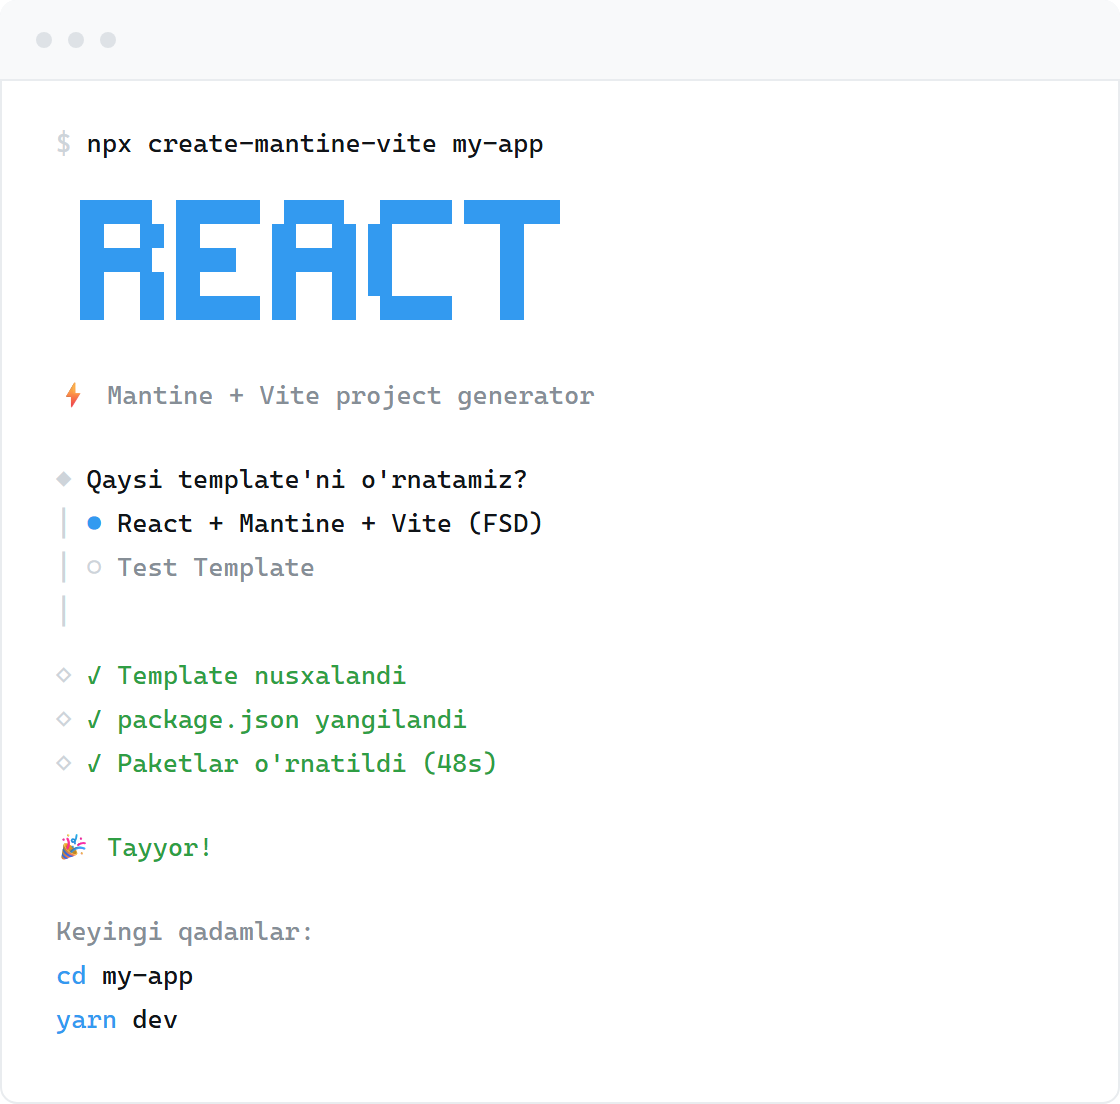
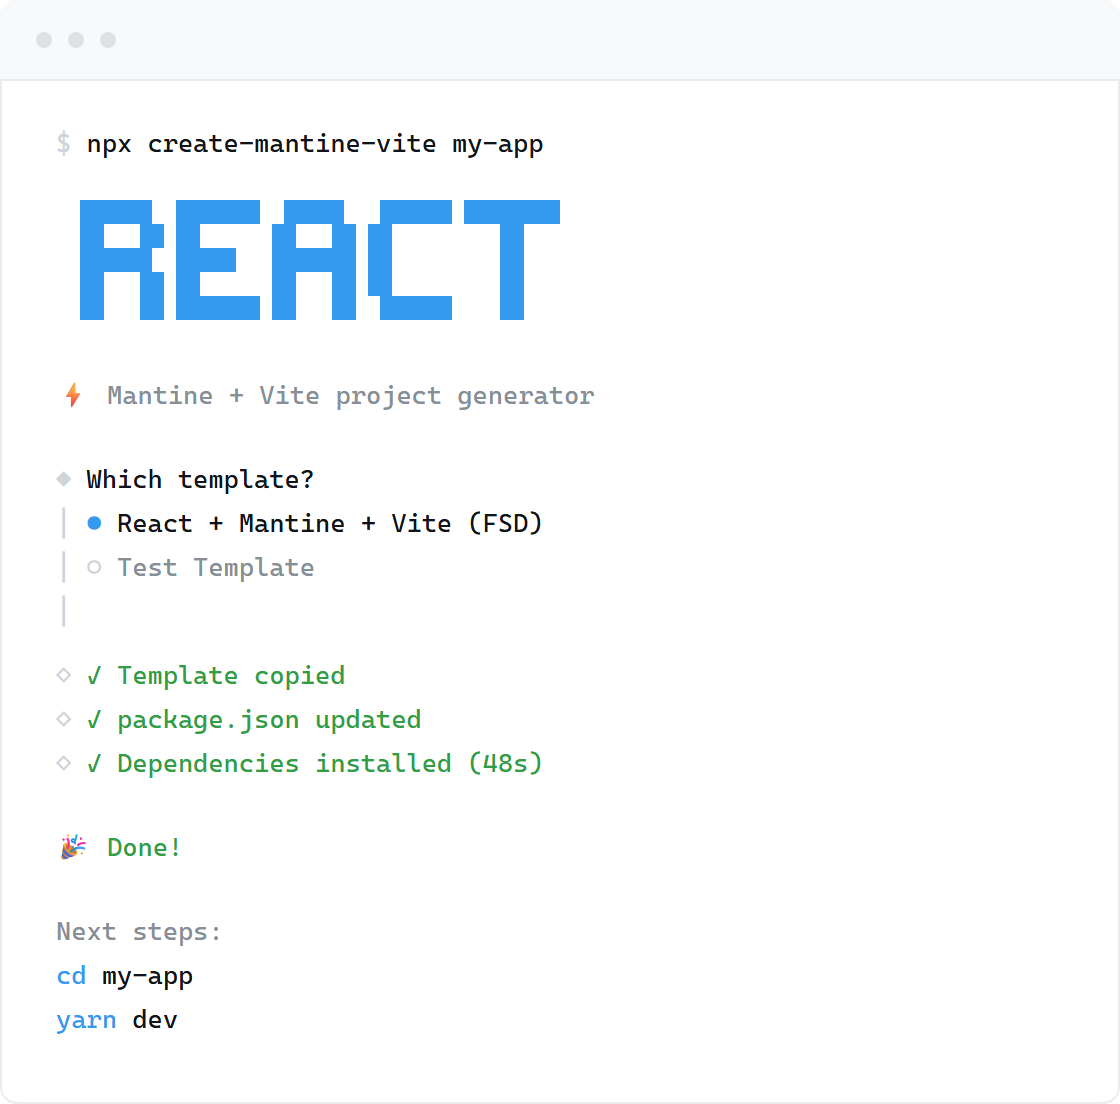
feat: switch CLI output to English
The CLI spoke Uzbek while the package, README, and npm audience were English —
prompts like "Qaysi template'ni o'rnatamiz?" were unreadable to most people
installing it.

- translate every prompt, spinner, warning, and error string
- translate code comments so the repo is contributor-readable
- collapse the three-line success banner to one green line plus a dim
  follow-up; three bold green lines buried the next steps under them
- redraw assets/terminal.svg and .png with the English session

diff --git a/packages/create-mantine-vite/bin/cli.js b/packages/create-mantine-vite/bin/cli.js
@@ -34,7 +34,7 @@ const TEMPLATES = [
     {
         value: "test-template",
         label: "Test Template",
-        hint: "tez orada qo'shiladi",
+        hint: "coming soon",
         dir: null,
         available: false,
     },
@@ -78,15 +78,15 @@ async function animatedBanner() {
 
     console.log("");
 
-    // 1) Hamma qatorlarni dim chiqaramiz (darhol)
+    // 1) Print every line dim, immediately
     for (const line of lines) {
         console.log(pc.dim(line));
     }
 
-    // 2) Cursor banner boshiga qaytariladi
+    // 2) Move the cursor back to the top of the banner
     process.stdout.write(`\x1b[${lines.length}A`);
 
-    // 3) Har qatorni cyan + bold ga aylantiramiz, ketma-ket
+    // 3) Repaint each line cyan + bold, one after another
     for (const line of lines) {
         process.stdout.write(`\x1b[2K\r${pc.bold(pc.cyan(line))}\n`);
         await sleep(110);
@@ -98,7 +98,7 @@ async function animatedBanner() {
 }
 
 // ───── Pretty exit ─────
-function bye(msg = "O'rnatish bekor qilindi 😏") {
+function bye(msg = "Cancelled.") {
     cancel(msg);
     process.exit(0);
 }
@@ -109,11 +109,11 @@ async function chooseTemplate(preset) {
         const template = TEMPLATES.find((t) => t.value === preset);
         if (!template) {
             const names = TEMPLATES.filter((t) => t.available).map((t) => t.value).join(", ");
-            log.error(`"${preset}" degan template yo'q. Mavjudlari: ${names}`);
+            log.error(`No template named "${preset}". Available: ${names}`);
             process.exit(1);
         }
         if (!template.available) {
-            log.error(`"${preset}" hali mavjud emas.`);
+            log.error(`Template "${preset}" is not available yet.`);
             process.exit(1);
         }
         return template;
@@ -121,7 +121,7 @@ async function chooseTemplate(preset) {
 
     while (true) {
         const value = await select({
-            message: `Qaysi template'ni o'rnatamiz?\n${pc.dim("│")}`,
+            message: `Which template?\n${pc.dim("│")}`,
             options: TEMPLATES.map((t) => ({
                 value: t.value,
                 label: t.available ? t.label : pc.dim(t.label),
@@ -132,10 +132,10 @@ async function chooseTemplate(preset) {
         if (isCancel(value)) bye();
 
         const template = TEMPLATES.find((t) => t.value === value);
-        if (!template) bye("Template tanlanmadi.");
+        if (!template) bye("No template selected.");
 
         if (!template.available) {
-            log.warn(`"${template.label.trim()}" hali mavjud emas. Boshqa template tanlang.`);
+            log.warn(`"${template.label.trim()}" is not available yet. Pick another one.`);
             continue;
         }
         return template;
@@ -146,11 +146,11 @@ async function chooseTemplate(preset) {
 async function chooseProjectName(initial) {
     if (initial && initial.trim()) return initial.trim();
     const name = await text({
-        message: "Loyiha nomi:",
+        message: "Project name:",
         placeholder: "my-app",
         initialValue: "my-app",
         validate: (v) => {
-            if (!v.trim()) return "Bo'sh bo'lishi mumkin emas";
+            if (!v.trim()) return "Project name cannot be empty";
         },
     });
     if (isCancel(name)) bye();
@@ -169,12 +169,12 @@ async function ensureEmptyTarget(targetDir, projectName) {
 
     if (entries.length === 0) return;
 
-    log.warn(`"${projectName}" papkasi mavjud va bo'sh emas (${entries.length} ta element).`);
+    log.warn(`"${projectName}" already exists and is not empty (${entries.length} entries).`);
     const ok = await confirm({
-        message: "Ichidagi hamma narsa o'chirilsinmi?",
+        message: "Delete everything inside it?",
         initialValue: false,
     });
-    if (isCancel(ok) || !ok) bye("Papka o'zgartirilmadi.");
+    if (isCancel(ok) || !ok) bye("Left the folder untouched.");
 
     await fs.rm(targetDir, {recursive: true, force: true});
 }
@@ -204,7 +204,7 @@ async function copyTemplate(srcDir, destDir) {
 // ───── Install runner: pipe output, our spinner, dump on failure ─────
 async function runInstall(cmd, cwd) {
     const s = spinner();
-    s.start(`Paketlar o'rnatilmoqda (${cmd})`);
+    s.start(`Installing dependencies (${cmd})`);
     const startTime = Date.now();
 
     const [bin, ...args] = cmd.split(" ");
@@ -220,7 +220,7 @@ async function runInstall(cmd, cwd) {
 
     const interval = setInterval(() => {
         const elapsed = Math.floor((Date.now() - startTime) / 1000);
-        s.message(`Paketlar o'rnatilmoqda (${cmd}) — ${elapsed}s`);
+        s.message(`Installing dependencies (${cmd}) — ${elapsed}s`);
     }, 1000);
 
     const exitCode = await new Promise((resolve) => {
@@ -232,11 +232,11 @@ async function runInstall(cmd, cwd) {
     const elapsed = Math.floor((Date.now() - startTime) / 1000);
 
     if (exitCode === 0) {
-        s.stop(pc.green(`✓ Paketlar o'rnatildi (${elapsed}s)`));
+        s.stop(pc.green(`✓ Dependencies installed (${elapsed}s)`));
         return true;
     }
 
-    s.stop(pc.red(`✗ Paketlarni o'rnatib bo'lmadi (${cmd})`));
+    s.stop(pc.red(`✗ Could not install dependencies (${cmd})`));
     const output = Buffer.concat(chunks).toString();
     if (output.trim()) {
         console.error(pc.dim("\n  ─── output ───"));
@@ -269,28 +269,28 @@ const presetTemplate = args
 
     // 1. Copy the template out of this package
     const copySpinner = spinner();
-    copySpinner.start(`Template tayyorlanmoqda — ${template.label.trim()}`);
+    copySpinner.start(`Preparing template — ${template.label.trim()}`);
     const srcDir = path.join(TEMPLATES_DIR, template.dir);
     try {
         await fs.access(srcDir);
     } catch {
-        copySpinner.stop(pc.red("✗ Template topilmadi"));
-        log.error(`Paket ichida "${template.dir}" yo'q: ${srcDir}`);
-        log.info("Paket buzilgan bo'lishi mumkin — qayta o'rnatib ko'ring.");
+        copySpinner.stop(pc.red("✗ Template not found"));
+        log.error(`Missing "${template.dir}" inside the package: ${srcDir}`);
+        log.info("The package may be corrupted — try reinstalling it.");
         process.exit(1);
     }
     try {
         await copyTemplate(srcDir, targetDir);
-        copySpinner.stop(pc.green("✓ Template nusxalandi"));
+        copySpinner.stop(pc.green("✓ Template copied"));
     } catch (err) {
-        copySpinner.stop(pc.red("✗ Template nusxalashda xato"));
+        copySpinner.stop(pc.red("✗ Could not copy the template"));
         console.error(err);
         process.exit(1);
     }
 
-    // 2. package.json — name moslash
+    // 2. package.json — match the project name
     const pkgSpinner = spinner();
-    pkgSpinner.start("package.json yangilanmoqda");
+    pkgSpinner.start("Updating package.json");
     try {
         const pkgPath = path.join(targetDir, "package.json");
         const pkg = JSON.parse(await fs.readFile(pkgPath, "utf8"));
@@ -302,9 +302,9 @@ const presetTemplate = args
         delete pkg.private;
         delete pkg.publishConfig;
         await fs.writeFile(pkgPath, JSON.stringify(pkg, null, 2) + "\n", "utf8");
-        pkgSpinner.stop(pc.green("✓ package.json yangilandi"));
+        pkgSpinner.stop(pc.green("✓ package.json updated"));
     } catch (e) {
-        pkgSpinner.stop(pc.yellow(`⚠ package.json yangilashda muammo: ${e?.message}`));
+        pkgSpinner.stop(pc.yellow(`⚠ Could not update package.json: ${e?.message}`));
     }
 
     // 3. Install (pipe output → our spinner)
@@ -312,26 +312,25 @@ const presetTemplate = args
         const cmd = useNpm ? "npm install" : "yarn install";
         let ok = await runInstall(cmd, targetDir);
         if (!ok && !useNpm) {
-            log.warn("yarn ishlamadi, npm bilan urinilyapti...");
+            log.warn("yarn failed, retrying with npm...");
             ok = await runInstall("npm install", targetDir);
         }
         if (!ok) process.exit(1);
     }
 
-    // 4. Yakuniy xabar
+    // 4. Wrap-up message
     const runner = useNpm ? "npm run" : "yarn";
     console.log("");
-    console.log(pc.green(pc.bold("🎉  Tayyor!")));
-    console.log(pc.green(pc.bold("Loyiha muvaffaqiyatli yaratildi.")));
-    console.log(pc.green(pc.bold("Bizning packagedan foydalanganingiz uchun rahmat!.")));
+    console.log(pc.green(pc.bold("🎉  Done!")));
+    console.log(pc.dim("  Your project is ready. Thanks for using create-mantine-vite!"));
     console.log("");
-    console.log(pc.dim("  Keyingi qadamlar:"));
+    console.log(pc.dim("  Next steps:"));
     console.log(`    ${pc.cyan("cd")} ${projectName}`);
     if (skipInstall) console.log(`    ${pc.cyan(useNpm ? "npm install" : "yarn install")}`);
     console.log(`    ${pc.cyan(runner)} dev`);
     console.log("");
 })().catch((err) => {
-    console.error(pc.red("\n  Kutilmagan xato:"));
+    console.error(pc.red("\n  Unexpected error:"));
     console.error(err);
     process.exit(1);
 });
